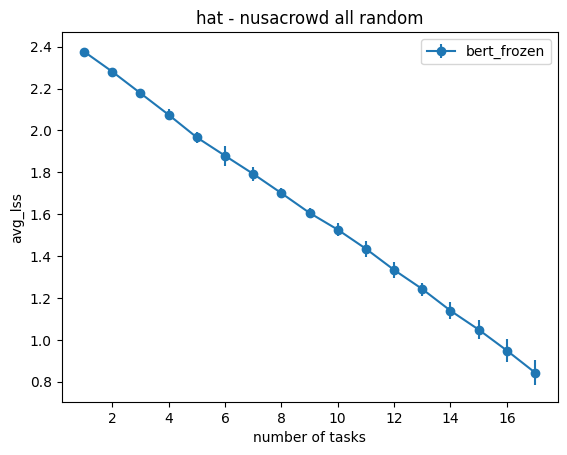
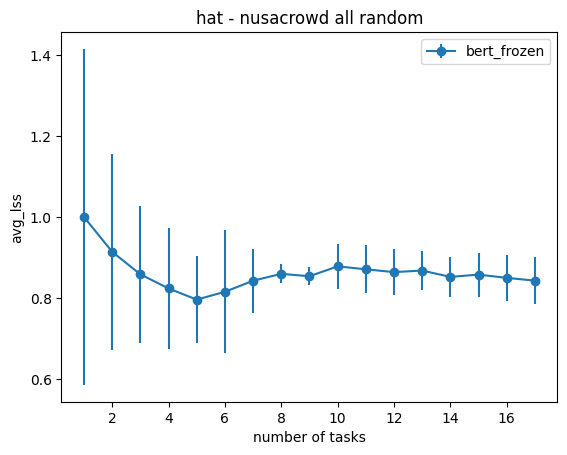
update merged viz

diff --git a/src/utils.py b/src/utils.py
@@ -667,7 +667,6 @@ def visualize(dir_name, exp_id, output, case_name, task):
       plt.savefig(f"{output}_{metrics}_{exp_id}.png", bbox_inches='tight')
 
 def create_viz(list_dataframe, title, legend, xlabel, ylabel, filename, list_exp_id):    
-    print(list_exp_id)
     for dataframe in list_dataframe:
         if 'mtl' in filename or 'one' in filename:
             plt.errorbar([(i+1) for i in range(len(dataframe))], calculate(dataframe, "avg"), calculate(dataframe, "std"), fmt ='o')
@@ -741,12 +740,12 @@ if __name__ == "__main__":
     list_exp = pd.read_csv('res/til_classification/list_experiments.csv',delimiter=',')
     
     # visualize an experiment
-    for index, row in list_exp.iterrows():
-        if (row['baseline'] != 'one') or (row['baseline'] != 'mtl'):
-            visualize('', row['exp_id'], f"res/til_classification/nusacrowd/{row['exp_id']} - {row['backbone']}_{row['baseline']}_.txt/{row['backbone']}_{row['baseline']}_.txt", 'nusacrowd_all_random', 'nusacrowd')
+    # for index, row in list_exp.iterrows():
+    #     if (row['baseline'] != 'one') or (row['baseline'] != 'mtl'):
+    #         visualize('', row['exp_id'], f"res/til_classification/nusacrowd/{row['exp_id']} - {row['backbone']}_{row['baseline']}_.txt/{row['backbone']}_{row['baseline']}_.txt", 'nusacrowd_all_random', 'nusacrowd')
     
     # create viz for backbone and baseline combination
-    # run_create_viz(['bert_adapter', 'bert_frozen'], ['a-gem'], 'nusacrowd all random', 'multi_backbone')
+    run_create_viz(['bert_adapter'], ['a-gem', 'ewc', 'mtl'], 'nusacrowd all random', 'multi_baseline')
     
     # recalculate an experiment
     # calculate_metrics(81, 'bert_adapter', 'a-gem')
